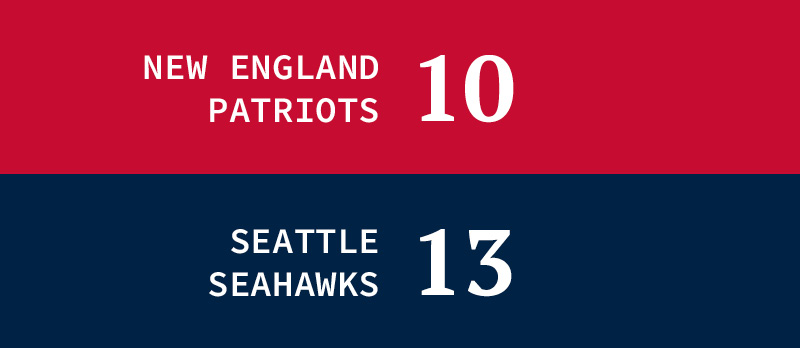
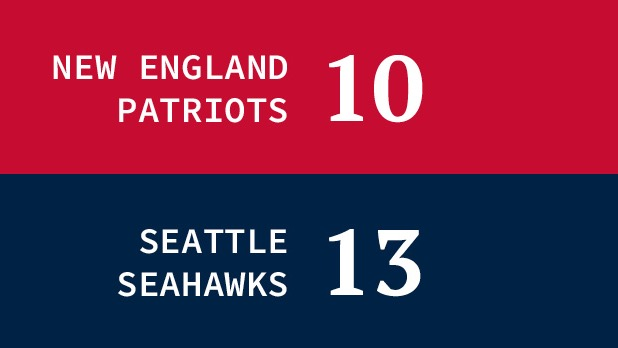
Change every image ratio to 16:9

diff --git a/components/home/ArticleCard/ArticleCard.module.scss b/components/home/ArticleCard/ArticleCard.module.scss
@@ -12,7 +12,7 @@
   // grid rather than adding list-only markup to ArticleCard itself.
   :global([data-view="list"]) & {
     display: grid;
-    grid-template-columns: 96px 1fr;
+    grid-template-columns: 160px 1fr;
     grid-template-rows: auto auto 1fr;
     column-gap: v.space(12);
     row-gap: v.space(4);
@@ -22,19 +22,15 @@
 .imageWrap {
   position: relative;
   width: 100%;
-  height: 180px; // mobile, bespoke to this component
+  aspect-ratio: 16 / 9; // the site's one editorial cover-photo ratio, everywhere an article image appears
   border-radius: 3px;
   overflow: hidden;
-
-  @include mix.mq(md) {
-    height: 150px;
-  }
 
   :global([data-view="list"]) & {
     grid-column: 1;
     grid-row: 1 / span 3;
-    width: 96px;
-    height: 96px;
+    width: 160px;
+    align-self: center;
   }
 }
 

diff --git a/components/home/HeroArticle/HeroArticle.module.scss b/components/home/HeroArticle/HeroArticle.module.scss
@@ -30,12 +30,12 @@
 
 .imageWrap {
   position: relative;
-  height: 200px; // mobile, bespoke to this component
+  aspect-ratio: 16 / 9; // mobile — matches the site's one editorial cover-photo ratio
   order: -1; // image above the headline on mobile; h1 stays first in the DOM for a11y/SEO regardless
 
   @include mix.mq(md) {
     flex: 1;
-    height: auto;
+    aspect-ratio: auto; // desktop stretches to match the content column's row height instead
     order: 0;
   }
 }
